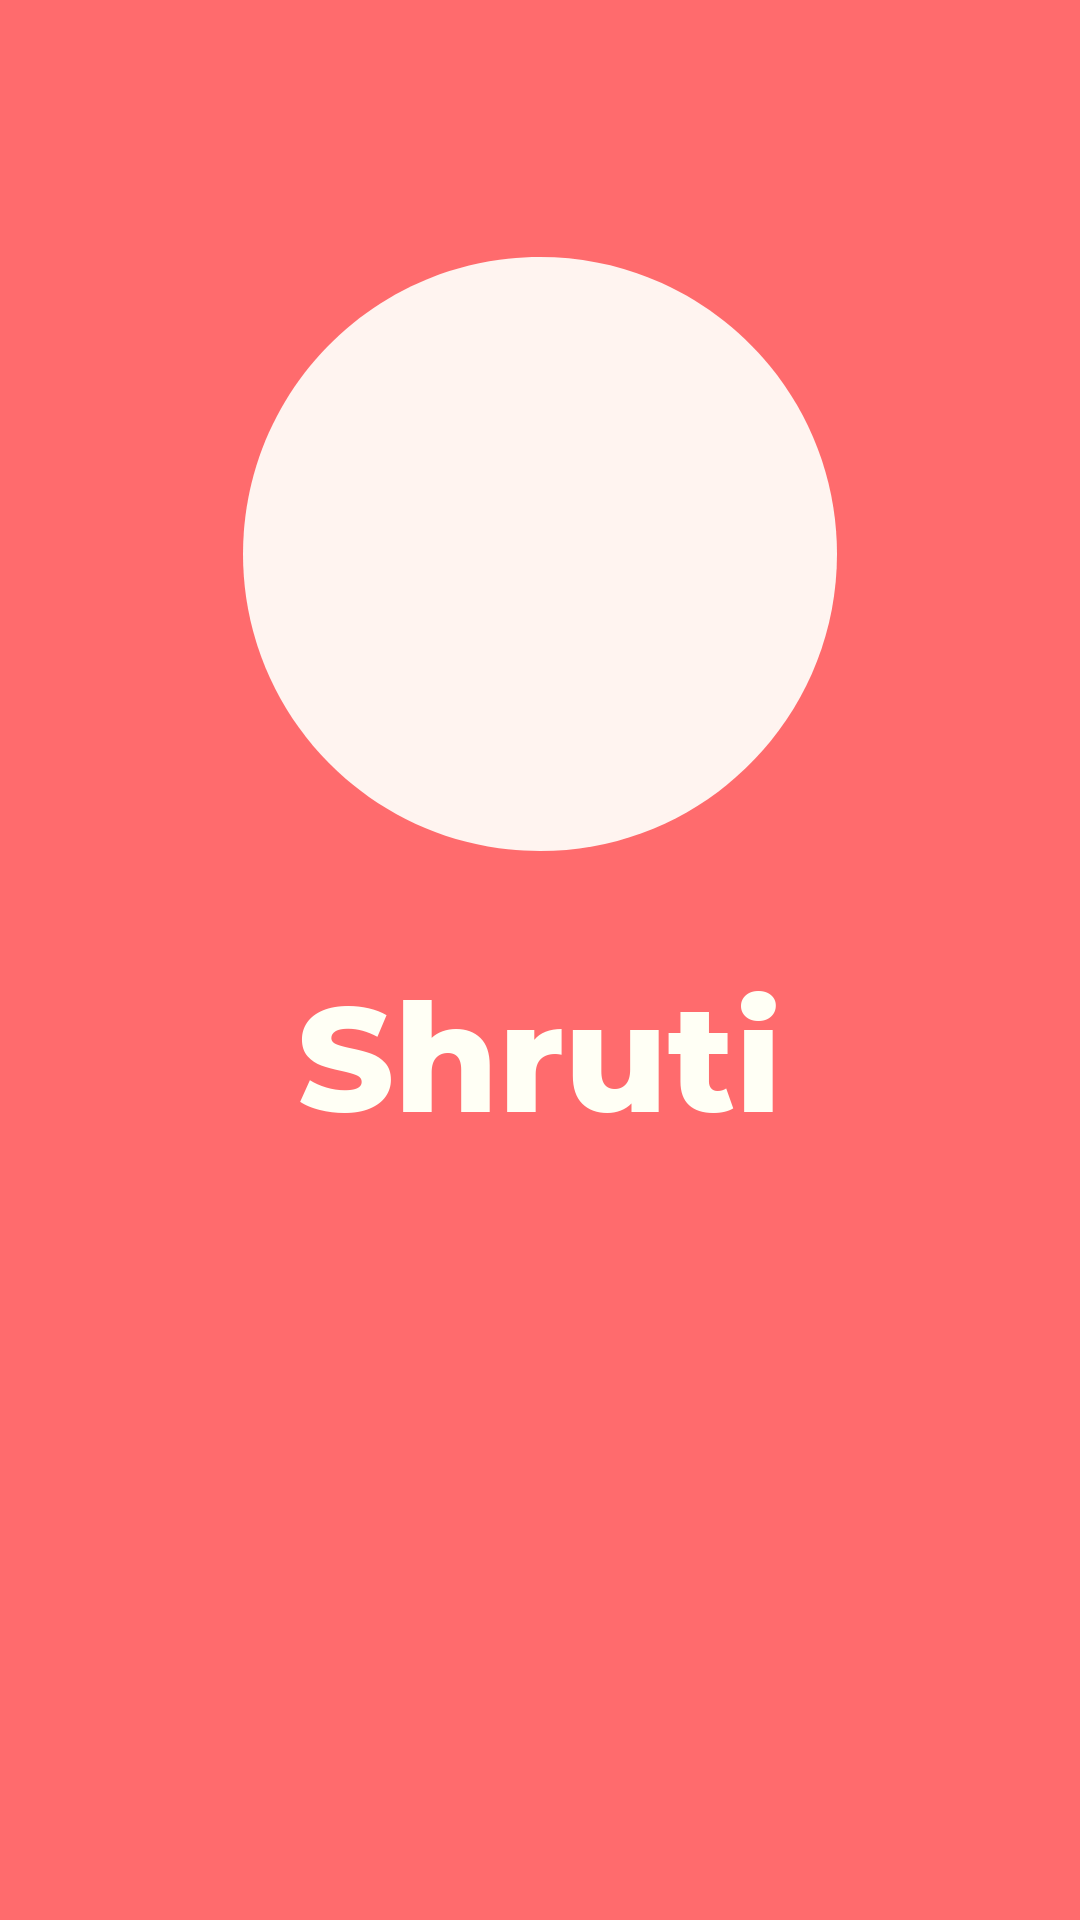
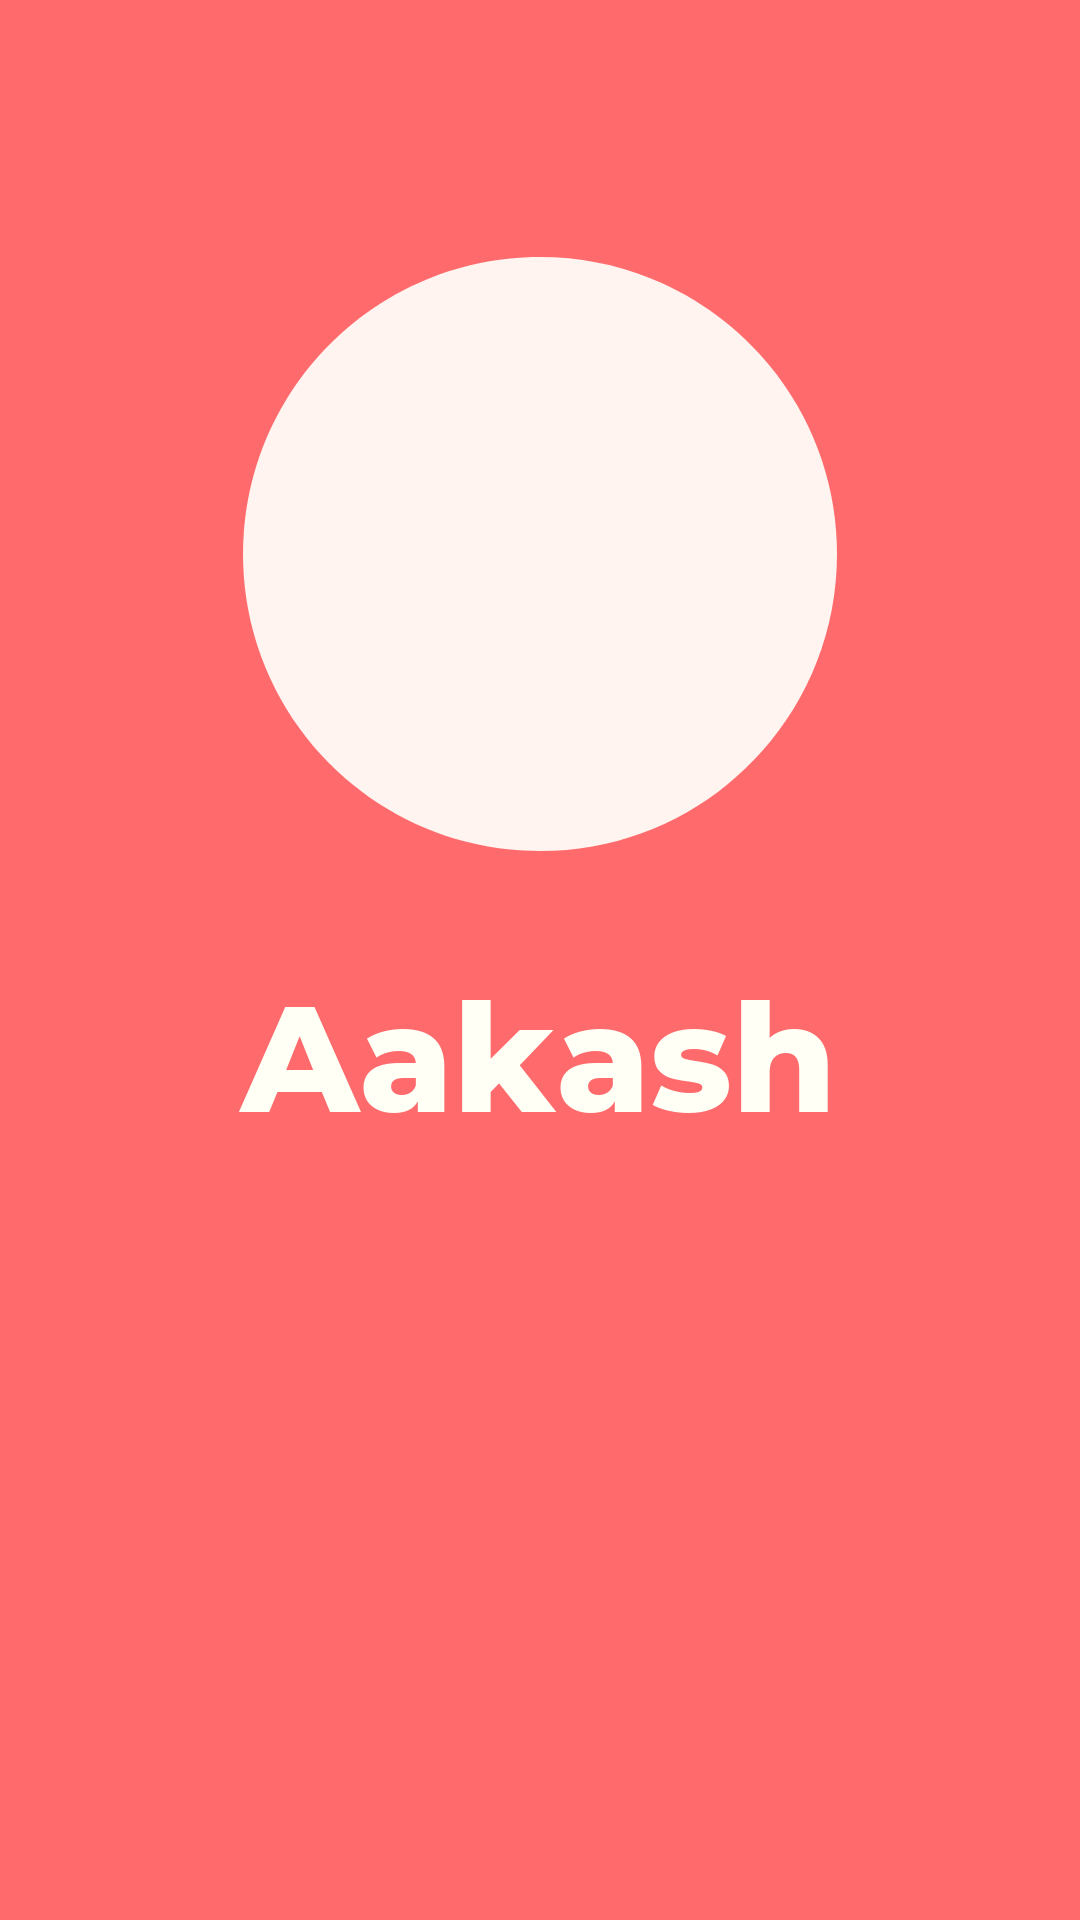
heh

Changed region(s): [[0.2139, 0.5, 0.7639, 0.5938]]

diff --git a/card.py b/card.py
@@ -21,9 +21,22 @@ def editcard(pfpurl, name, wins, topproj, soulmate, username):
     wins_font = ImageFont.truetype('static/Poppins-Regular.ttf', 24)
     my_image = Image.open(f"static/users/{username}/baamzi2.png")
     image_editable = ImageDraw.Draw(my_image)
+
+    topprojarr = topproj.split(" ")
+    top = ""
+    count = 0
+    for i in topprojarr:
+        count += len(i)
+
+        if count <= 18:
+            top += i + " "
+        else:
+            top += "..."
+            break
+
     image_editable.text((210, 50 ), name, ((255,255,255)), font=title_font, )
     image_editable.text((210, 110 ), wins + " wins", (((132, 150, 132))), font=wins_font, )
-    image_editable.text((60, 310 ), topproj.split(" ")[0], ((255,255,255)), font=title_font, )
+    image_editable.text((60, 310 ), top, ((255,255,255)), font=title_font, )
     image_editable.text((60, 465 ), soulmate, ((255,255,255)), font=title_font, )
     my_image.save(f"static/{username}.png")
 
